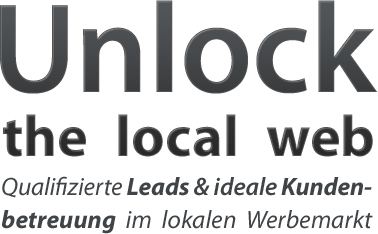
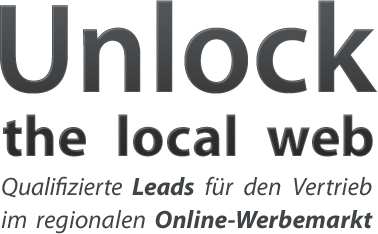
keine Links auf der homepage

Changed region(s): [[0.0, 0.8974, 0.9894, 1.0], [0.3201, 0.7479, 0.9894, 0.8376]]

diff --git a/client/views/homepage/homepage.html b/client/views/homepage/homepage.html
@@ -38,38 +38,38 @@
 			<li>
 				<h4 class="headline-pfeil">
 					<span class="function-headline">
-					Streuverluste minimieren
+					Effiziente Lead-Generierung
 					</span>
 				</h4>
 				<p class="function-description">
-					Reduzieren Sie Streuverluste im Vertrieb Ihrer Onlineprodukte durch qualifizierte Leads. 
+					Mit unseren detaillierten Firmenprofilen sparen Sie Zeit und Ressourcen im Vertrieb an lokale Unternehmen.
 				</p>
-				<a href="#">mehr Infos dazu</a>
+				<a href="#">mehr Informationen</a>
 			</li>
 			<li>
 				<h4 class="headline-kunden">
 					<span class="function-headline">
-					Ideale Kundenbetreuung
+					Genaue Zielgruppenauswahl
 					</span>
 				</h4>
 				<p class="function-description">
-				Erhalten Sie eine Nachricht sobald einer Ihrer Kunden bei Ihrer Konkurrenz aktiv wird oder sobald er seine Aktivität dort einstellt.
+				Unsere Unternehmensfilter erm&ouml;glichen Ihnen eine genaue Eingrenzung Ihrer Zielgruppe auf Basis der Online-Aktivit&auml;ten.
 				</p>
-				<a href="#">mehr Infos dazu</a>
+				<a href="/tour">mehr Informationen</a>
 			</li>
 			<li class="lastItem">
 				<h4 class="headline-deal">
 					<span class="function-headline">
-						Deal-Special
+						Gutschein-Special
 					<span class="aktion">
 						AKTION
 					</span>
 					</span>
 				</h4>
 				<p class="function-description">
-				Erfahren Sie, welches Unternehmen bereits einen Deal geschalten hat und wie erfolgreich der Deal war.
+				Erfahren Sie, welche Unternehmen bereits bei Groupon und co aktiv geworden sind. Wie steht es um Ihre Werbekunden?
 				</p>
-				<a href="#">mehr Infos dazu</a>
+				<a href="#">mehr Informationen</a>
 			</li>
 		</ul>
   </div>
@@ -80,12 +80,12 @@
   </div>
 
   <div class="grid-wrapper graueLinie partner-box">
-  	<a href="http://www.seitwert.de/" target="_blank" class="seitwert-logo partner-link">
-    </a>
-  	<a href="http://www.w3scan.com/" target="_blank" class="adSearchEngine-logo partner-link">
-    </a>
-  	<a href="http://de.semrush.com/" target="_blank" class="semrush-logo partner-link">
-    </a>
+  	<span class="seitwert-logo partner-link">
+    </span>
+  	<span class="adSearchEngine-logo partner-link">
+    </span>
+  	<span class="semrush-logo partner-link">
+    </span>
   </div>
   <div class="grid-wrapper zitat-slideshow">
     <div class="grid-wrapper graueLinie">
@@ -97,10 +97,7 @@
 				  Im lokalen Werbemarkt ist der Vertriebsaufwand eine der gro&szlig;en H&uuml;rden f&uuml;r innovative Startups. Um unsere Ressourcen m&ouml;glichst effizient einzusetzen bauen wir auf qualifizierte Leads von AboutLocal!
 			  </span>
 			  <span class="zitatautor">
-				  David Federhen, Co-Gr&uuml;nder von 
-				  <a href="http://favor.it/" target="_blank">
-				    favor.it
-				  </a>
+				  David Federhen, Co-Gr&uuml;nder von favor.it
 			  </span>
 		  </div>
     </div>
@@ -113,10 +110,7 @@
 				  AboutLocal schlie&szlig;t mit seinem Angebot eine gro&szlig;e L&uuml;cke. Wir sehen darin das Potential, Transparenz im lokalen Online-Markt zu bekommen, sowie den Vertrieb von Werbeleistungen an lokale Unternehmen zu optimieren.
 			  </span>
 			  <span class="zitatautor">
-				  Oliver Horst, Gesch&auml;ftsf&uuml;hrer 
-				  <a href="http://www.rp-online.de/" target="_blank">
-				    RP Online
-				  </a>
+				  Oliver Horst, Gesch&auml;ftsf&uuml;hrer RP Online
 			  </span>
 		  </div>
     </div>
@@ -202,7 +196,7 @@
 					  <div class="newsletterbox">
 						  <input type="checkbox" name="newsletter" id="newsletter" value="yes">
 						  <label for="newsletter" class="newsletterLabel">
-							  ja, ich m&ouml;chte aktuelle Informationen von AboutLocal erhalten.
+							  Ja, ich m&ouml;chte aktuelle Informationen von AboutLocal erhalten.
 						  </label>
 					  </div>
 					  <div class="abschicken-box">
